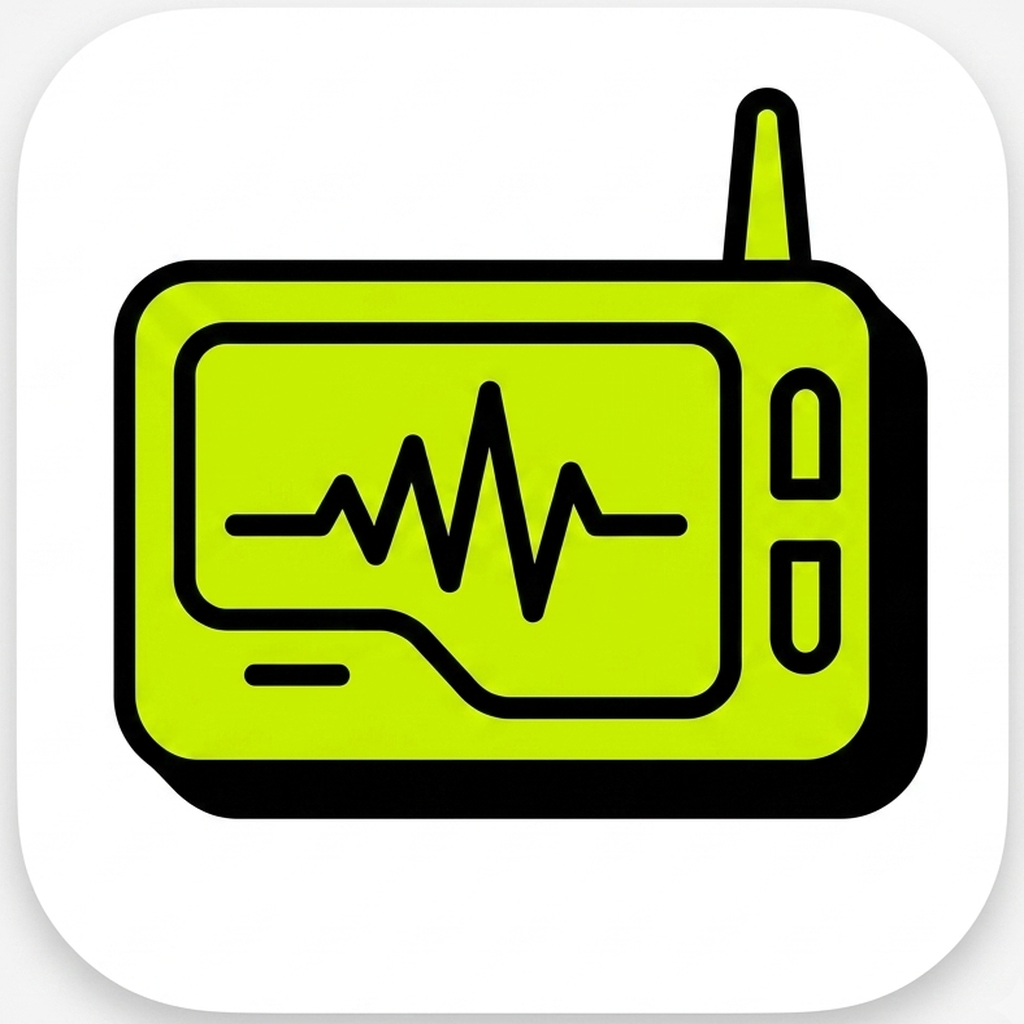
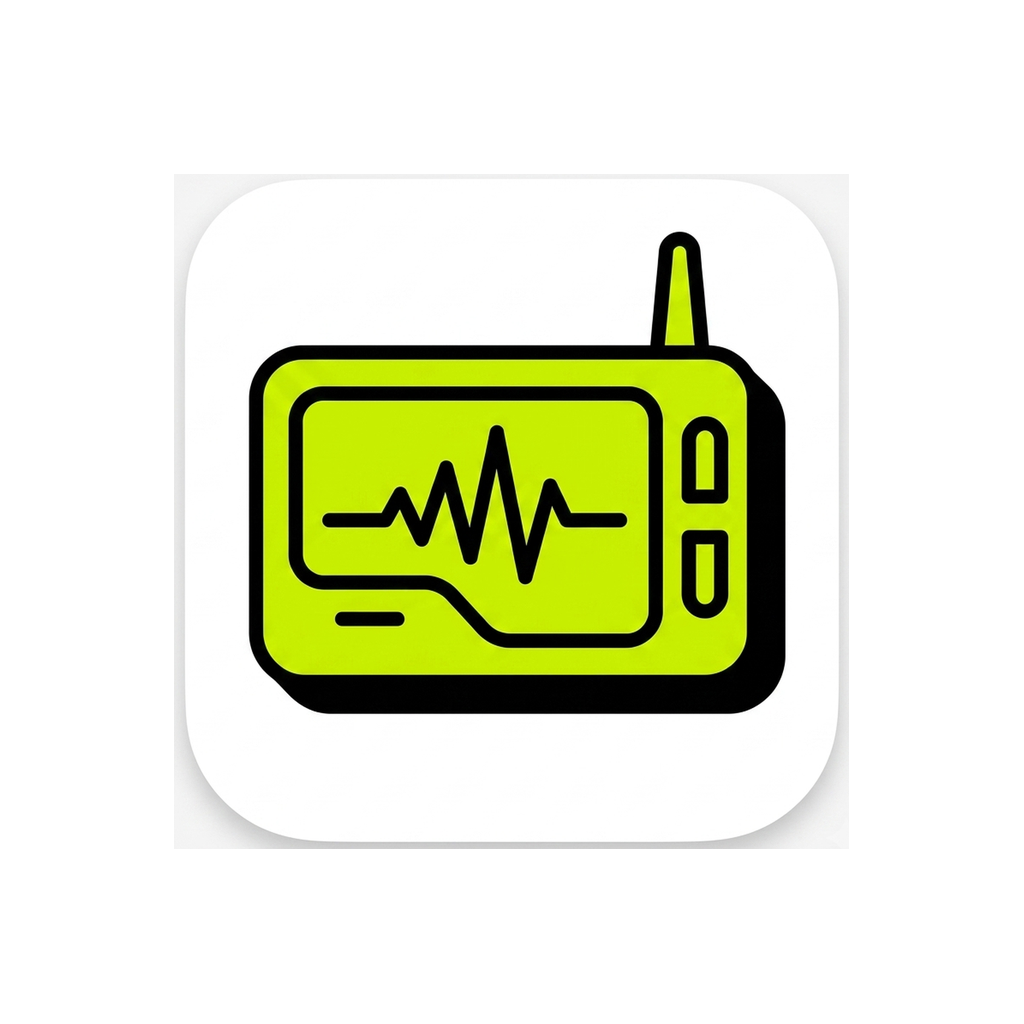
Update Android app configuration and UI components

diff --git a/src/screens/UsernameScreen.tsx b/src/screens/UsernameScreen.tsx
@@ -1,5 +1,5 @@
 import { useState } from 'react';
-import { KeyboardAvoidingView, Platform, Pressable, View } from 'react-native';
+import { KeyboardAvoidingView, Platform, Pressable, ScrollView, View } from 'react-native';
 import { SafeAreaView } from 'react-native-safe-area-context';
 
 import { Body, Display, Label, SignalButton, TextField } from '../components/ui';
@@ -44,11 +44,19 @@ export default function UsernameScreen() {
   }
 
   return (
-    <SafeAreaView style={{ flex: 1, backgroundColor: colors.canvas }}>
+    <SafeAreaView style={{ flex: 1, backgroundColor: colors.canvas }} edges={['top']}>
       <KeyboardAvoidingView
         behavior={Platform.OS === 'ios' ? 'padding' : undefined}
-        style={{ flex: 1, paddingHorizontal: space.containerPadding }}>
-        <View style={{ flex: 1, justifyContent: 'center', gap: space.sectionMargin }}>
+        style={{ flex: 1 }}>
+        <ScrollView
+          contentContainerStyle={{
+            flexGrow: 1,
+            justifyContent: 'center',
+            paddingHorizontal: space.containerPadding,
+            gap: space.sectionMargin,
+          }}
+          keyboardShouldPersistTaps="handled"
+        >
           <View style={{ gap: 12 }}>
             <Display>PICK A{'\n'}HANDLE</Display>
             <Body muted style={{ fontSize: 18 }}>This is how strangers hear you.</Body>
@@ -62,6 +70,8 @@ export default function UsernameScreen() {
               autoCapitalize="none"
               autoCorrect={false}
               maxLength={20}
+              autoComplete="username"
+              importantForAutofill="yes"
             />
             {error && <Body style={{ color: colors.error }}>{error}</Body>}
             <SignalButton label={busy ? 'SAVING…' : 'CLAIM IT'} onPress={save} disabled={busy} />
@@ -69,7 +79,7 @@ export default function UsernameScreen() {
               <Label muted>CANCEL · SIGN OUT</Label>
             </Pressable>
           </View>
-        </View>
+        </ScrollView>
       </KeyboardAvoidingView>
     </SafeAreaView>
   );

diff --git a/src/screens/OnboardingScreen.tsx b/src/screens/OnboardingScreen.tsx
@@ -3,6 +3,7 @@ import {
   KeyboardAvoidingView,
   Platform,
   Pressable,
+  ScrollView,
   View,
 } from "react-native";
 import { SafeAreaView } from "react-native-safe-area-context";
@@ -44,17 +45,19 @@ export default function OnboardingScreen() {
   }
 
   return (
-    <SafeAreaView style={{ flex: 1, backgroundColor: colors.canvas }}>
+    <SafeAreaView style={{ flex: 1, backgroundColor: colors.canvas }} edges={["top"]}>
       <KeyboardAvoidingView
         behavior={Platform.OS === "ios" ? "padding" : undefined}
-        style={{ flex: 1, paddingHorizontal: space.containerPadding }}
+        style={{ flex: 1 }}
       >
-        <View
-          style={{
-            flex: 1,
+        <ScrollView
+          contentContainerStyle={{
+            flexGrow: 1,
             justifyContent: "center",
+            paddingHorizontal: space.containerPadding,
             gap: space.sectionMargin,
           }}
+          keyboardShouldPersistTaps="handled"
         >
           <View style={{ gap: 16, alignItems: "center" }}>
             <Display style={{ fontSize: 72, lineHeight: 70 }}>SIGNAL</Display>
@@ -71,6 +74,7 @@ export default function OnboardingScreen() {
               keyboardType="email-address"
               autoCapitalize="none"
               autoComplete="email"
+              importantForAutofill="yes"
             />
             <TextField
               placeholder="PASSWORD"
@@ -78,6 +82,8 @@ export default function OnboardingScreen() {
               onChangeText={setPassword}
               secureTextEntry
               autoCapitalize="none"
+              autoComplete="password"
+              importantForAutofill="yes"
             />
 
             {error && <Body style={{ color: colors.error }}>{error}</Body>}
@@ -108,7 +114,7 @@ export default function OnboardingScreen() {
               </Label>
             </Pressable>
           </View>
-        </View>
+        </ScrollView>
       </KeyboardAvoidingView>
     </SafeAreaView>
   );

diff --git a/src/theme.ts b/src/theme.ts
@@ -48,6 +48,17 @@ export const brutalistShadow = {
   elevation: 8,
 };
 
+// Same offset shadow, minus `elevation`. Use where the shadow toggles on an
+// interactive/focused view: changing Android `elevation` recreates the native
+// view (dropping TextInput focus + flickering the keyboard). iOS shadow props
+// are safe to toggle; Android just shows no shadow, which is acceptable.
+export const iosFocusShadow = {
+  shadowColor: colors.ink,
+  shadowOffset: { width: 4, height: 4 },
+  shadowOpacity: 1,
+  shadowRadius: 0,
+};
+
 // The 6 allowed reaction emojis (per spec). `as const` so the element type is a
 // string-literal union (see ReactionEmoji in types.ts), not plain string.
 export const REACTION_EMOJIS = ['🔥', '💙', '🤝', '😂', '💀', '🤯'] as const;

diff --git a/src/components/ui.tsx b/src/components/ui.tsx
@@ -11,7 +11,7 @@ import {
   type ViewStyle,
 } from 'react-native';
 
-import { brutalistShadow, colors, fonts, radius, space } from '../theme';
+import { brutalistShadow, colors, fonts, iosFocusShadow, radius, space } from '../theme';
 
 type TextProps = {
   children?: ReactNode;
@@ -345,6 +345,7 @@ export function TextField({
 
   return (
     <View
+      collapsable={false}
       style={[
         {
           flexDirection: 'row',
@@ -355,7 +356,10 @@ export function TextField({
           backgroundColor: colors.canvas,
           paddingHorizontal: 20,
         },
-        focused ? brutalistShadow : null,
+        // Only the iOS offset-shadow toggles on focus. Android `elevation` is
+        // held constant — toggling it recreates the native view, which drops
+        // TextInput focus and flickers the keyboard shut on focus.
+        focused ? iosFocusShadow : null,
       ]}>
       <TextInput
         placeholderTextColor={colors.onSurfaceVariant}